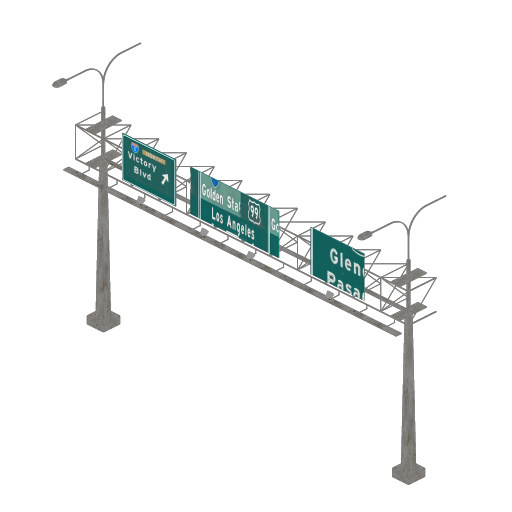
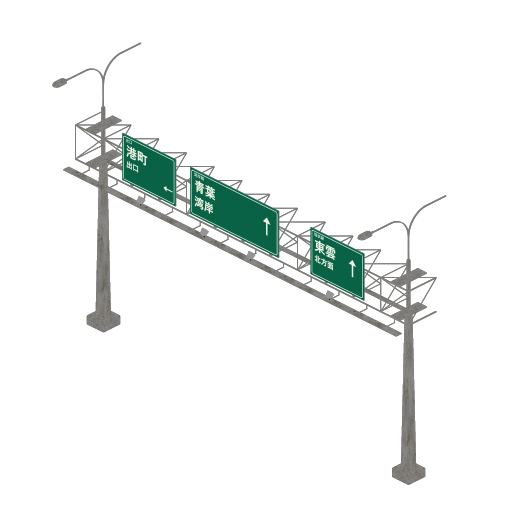
Replace English highway signs with Japanese destinations

Changed region(s): [[0.2188, 0.25, 0.5625, 0.5], [0.5938, 0.4375, 0.7188, 0.5938]]

diff --git a/assets/highway/CREDITS.md b/assets/highway/CREDITS.md
@@ -14,8 +14,10 @@ licensed under [CC BY 4.0](https://creativecommons.org/licenses/by/4.0/).
 - **Highway Sign**, by [haleem](https://sketchfab.com/haleem4):
   [source model](https://sketchfab.com/3d-models/highway-sign-28c2081eb3664308a53d38c674e08eff).
   Extracted gantry/sign assembly; normalized scale/orientation and rendered as
-  separate isometric colour/normal/depth layers. Sign UVs are counter-mirrored
-  to keep lettering readable in the driving view. Original floor excluded.
+  separate isometric colour/normal/depth layers. English faces replaced with
+  fictional Japanese destinations; sign UVs adapted for readable mirrored-view
+  lettering. Original floor excluded. Japanese sign-face artwork is generated
+  for Number Zero; no font files are redistributed.
 
 Original models, material images, Blender scenes and intermediate renders stay
 in the experiment workspace; only runtime exports are included here.
